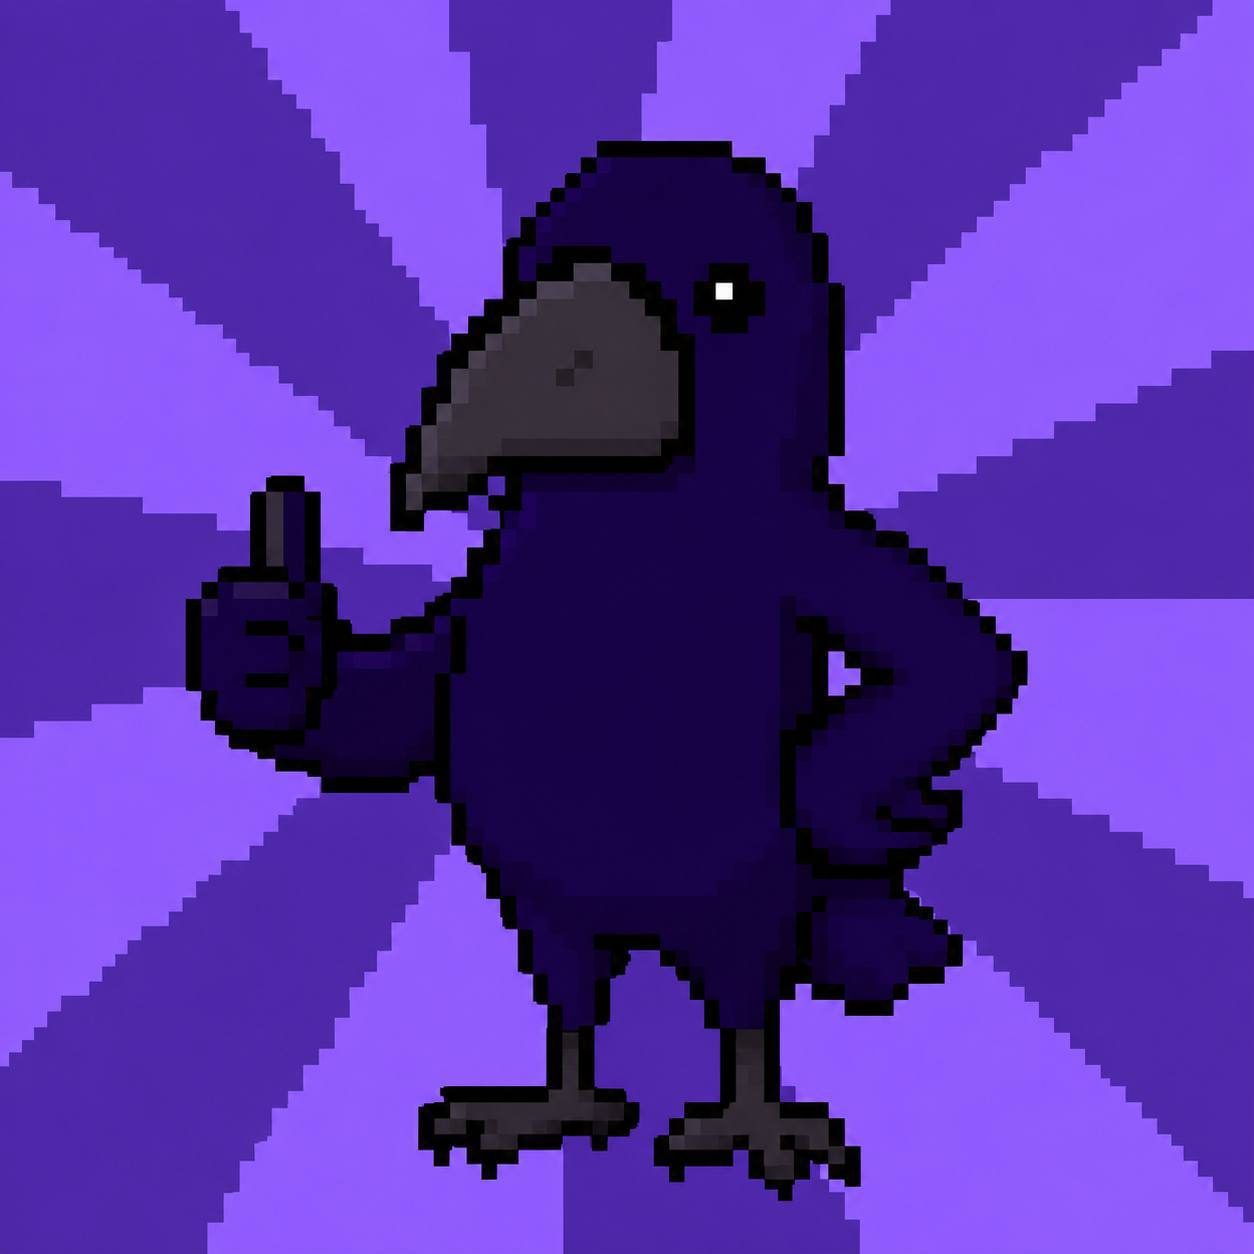
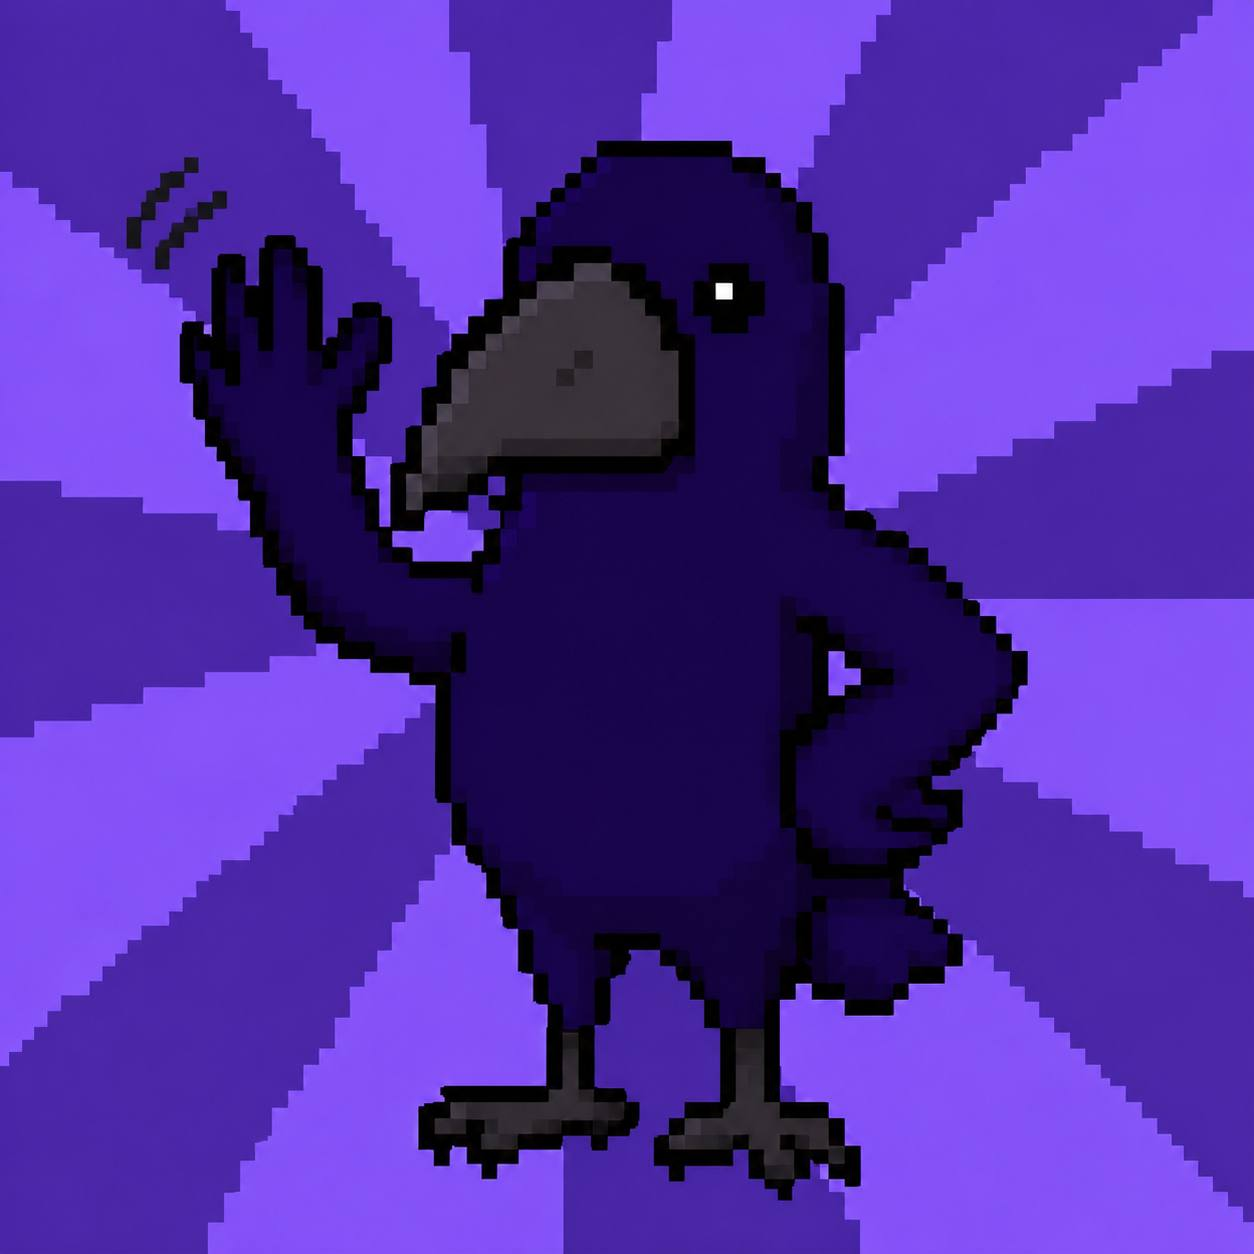
feat(bot): картинки-маскоты во все сообщения + фото в «уже в потоке»
- welcome/nudge заменены на финальные ассеты (исправлена опечатка на nudge)
- добавлен hugin-already.png для сообщения «ты уже в потоке»
- alreadyInStream теперь шлётся фото с подписью

Changed region(s): [[0.0933, 0.1244, 0.4043, 0.6531]]

diff --git a/src/bot.ts b/src/bot.ts
@@ -41,6 +41,7 @@ function streamKeyboard(botUsername: string, tgId: number): InlineKeyboard {
 
 // Картинки-маскоты (положить файлы сюда).
 const WELCOME_IMAGE = fileURLToPath(new URL('../assets/hugin-welcome.png', import.meta.url));
+const ALREADY_IMAGE = fileURLToPath(new URL('../assets/hugin-already.png', import.meta.url));
 const ACCESS_IMAGE = fileURLToPath(new URL('../assets/hugin-access.png', import.meta.url));
 
 bot.command('start', async (ctx) => {
@@ -66,10 +67,13 @@ bot.command('start', async (ctx) => {
   // Уже в потоке — повторно не записываем.
   if (user.state === 'in_stream' && user.stream_id && user.seat) {
     const { data: s } = await db.from('streams').select('*').eq('id', user.stream_id).single();
-    await ctx.reply(texts.alreadyInStreamCard(s!.number, user.seat, s!.size), {
-      parse_mode: 'HTML',
-      reply_markup: streamKeyboard(me.username, from.id),
-    });
+    const caption = texts.alreadyInStreamCard(s!.number, user.seat, s!.size);
+    const kb = streamKeyboard(me.username, from.id);
+    if (existsSync(ALREADY_IMAGE)) {
+      await ctx.replyWithPhoto(new InputFile(ALREADY_IMAGE), { caption, parse_mode: 'HTML', reply_markup: kb });
+    } else {
+      await ctx.reply(caption, { parse_mode: 'HTML', reply_markup: kb });
+    }
     return;
   }
 